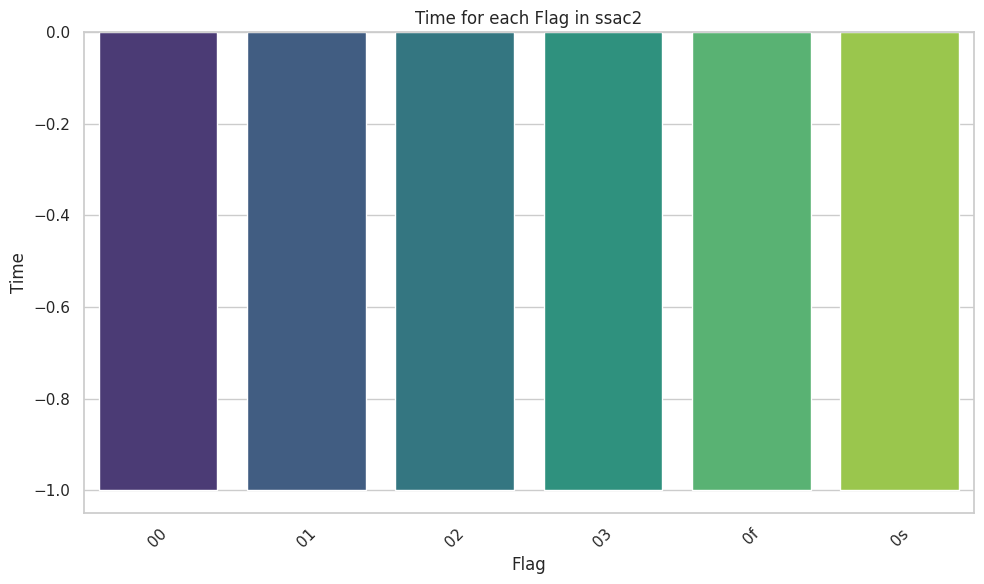
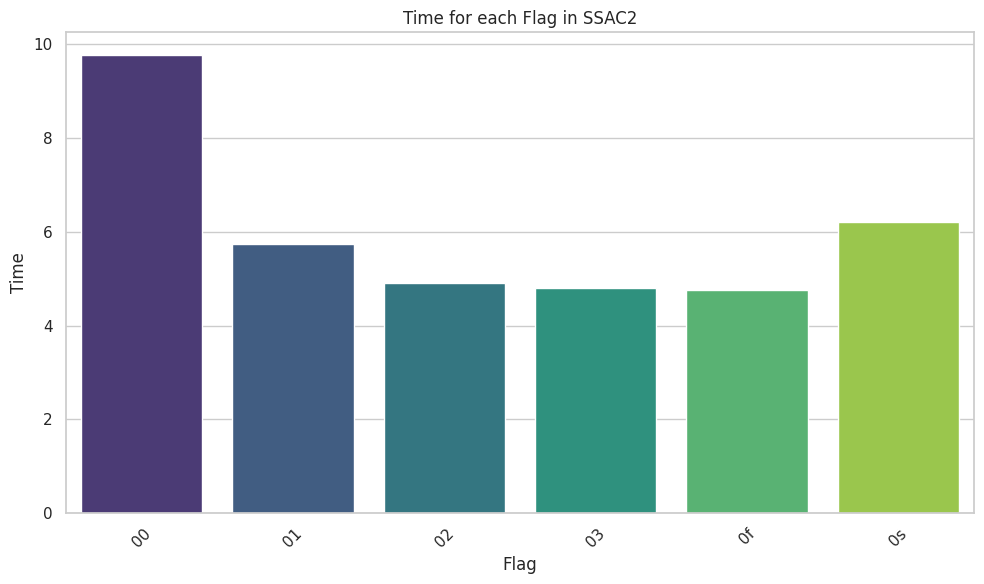
finishing task 1

diff --git a/solutions/exc_05/task1/report/report.md b/solutions/exc_05/task1/report/report.md
@@ -82,11 +82,13 @@ Here also interestingly `-O2` was the fastest, and it is $\sim77\%$ faster than 
 
 | program | flag | metric | time |
 | ------- | ---- | ------ | ---- |
-| ssac2   | 00   | real   | -1   |
-| ssac2   | 01   | real   | -1   |
-| ssac2   | 02   | real   | -1   |
-| ssac2   | 03   | real   | -1   |
-| ssac2   | 0f   | real   | -1   |
-| ssac2   | 0s   | real   | -1   |
+| ssac2   | 00   | real   | 9.77 |
+| ssac2   | 01   | real   | 5.75 |
+| ssac2   | 02   | real   | 4.90 |
+| ssac2   | 03   | real   | 4.81 |
+| ssac2   | 0f   | real   | 4.76 |
+| ssac2   | 0s   | real   | 6.21 |
 
 ![ssca2](plots/times_ssca2.png)
+
+Here the `-Ofast` version was the fastest, and it is $\sim51\%$ faster than the slowest version with `-O0`.
